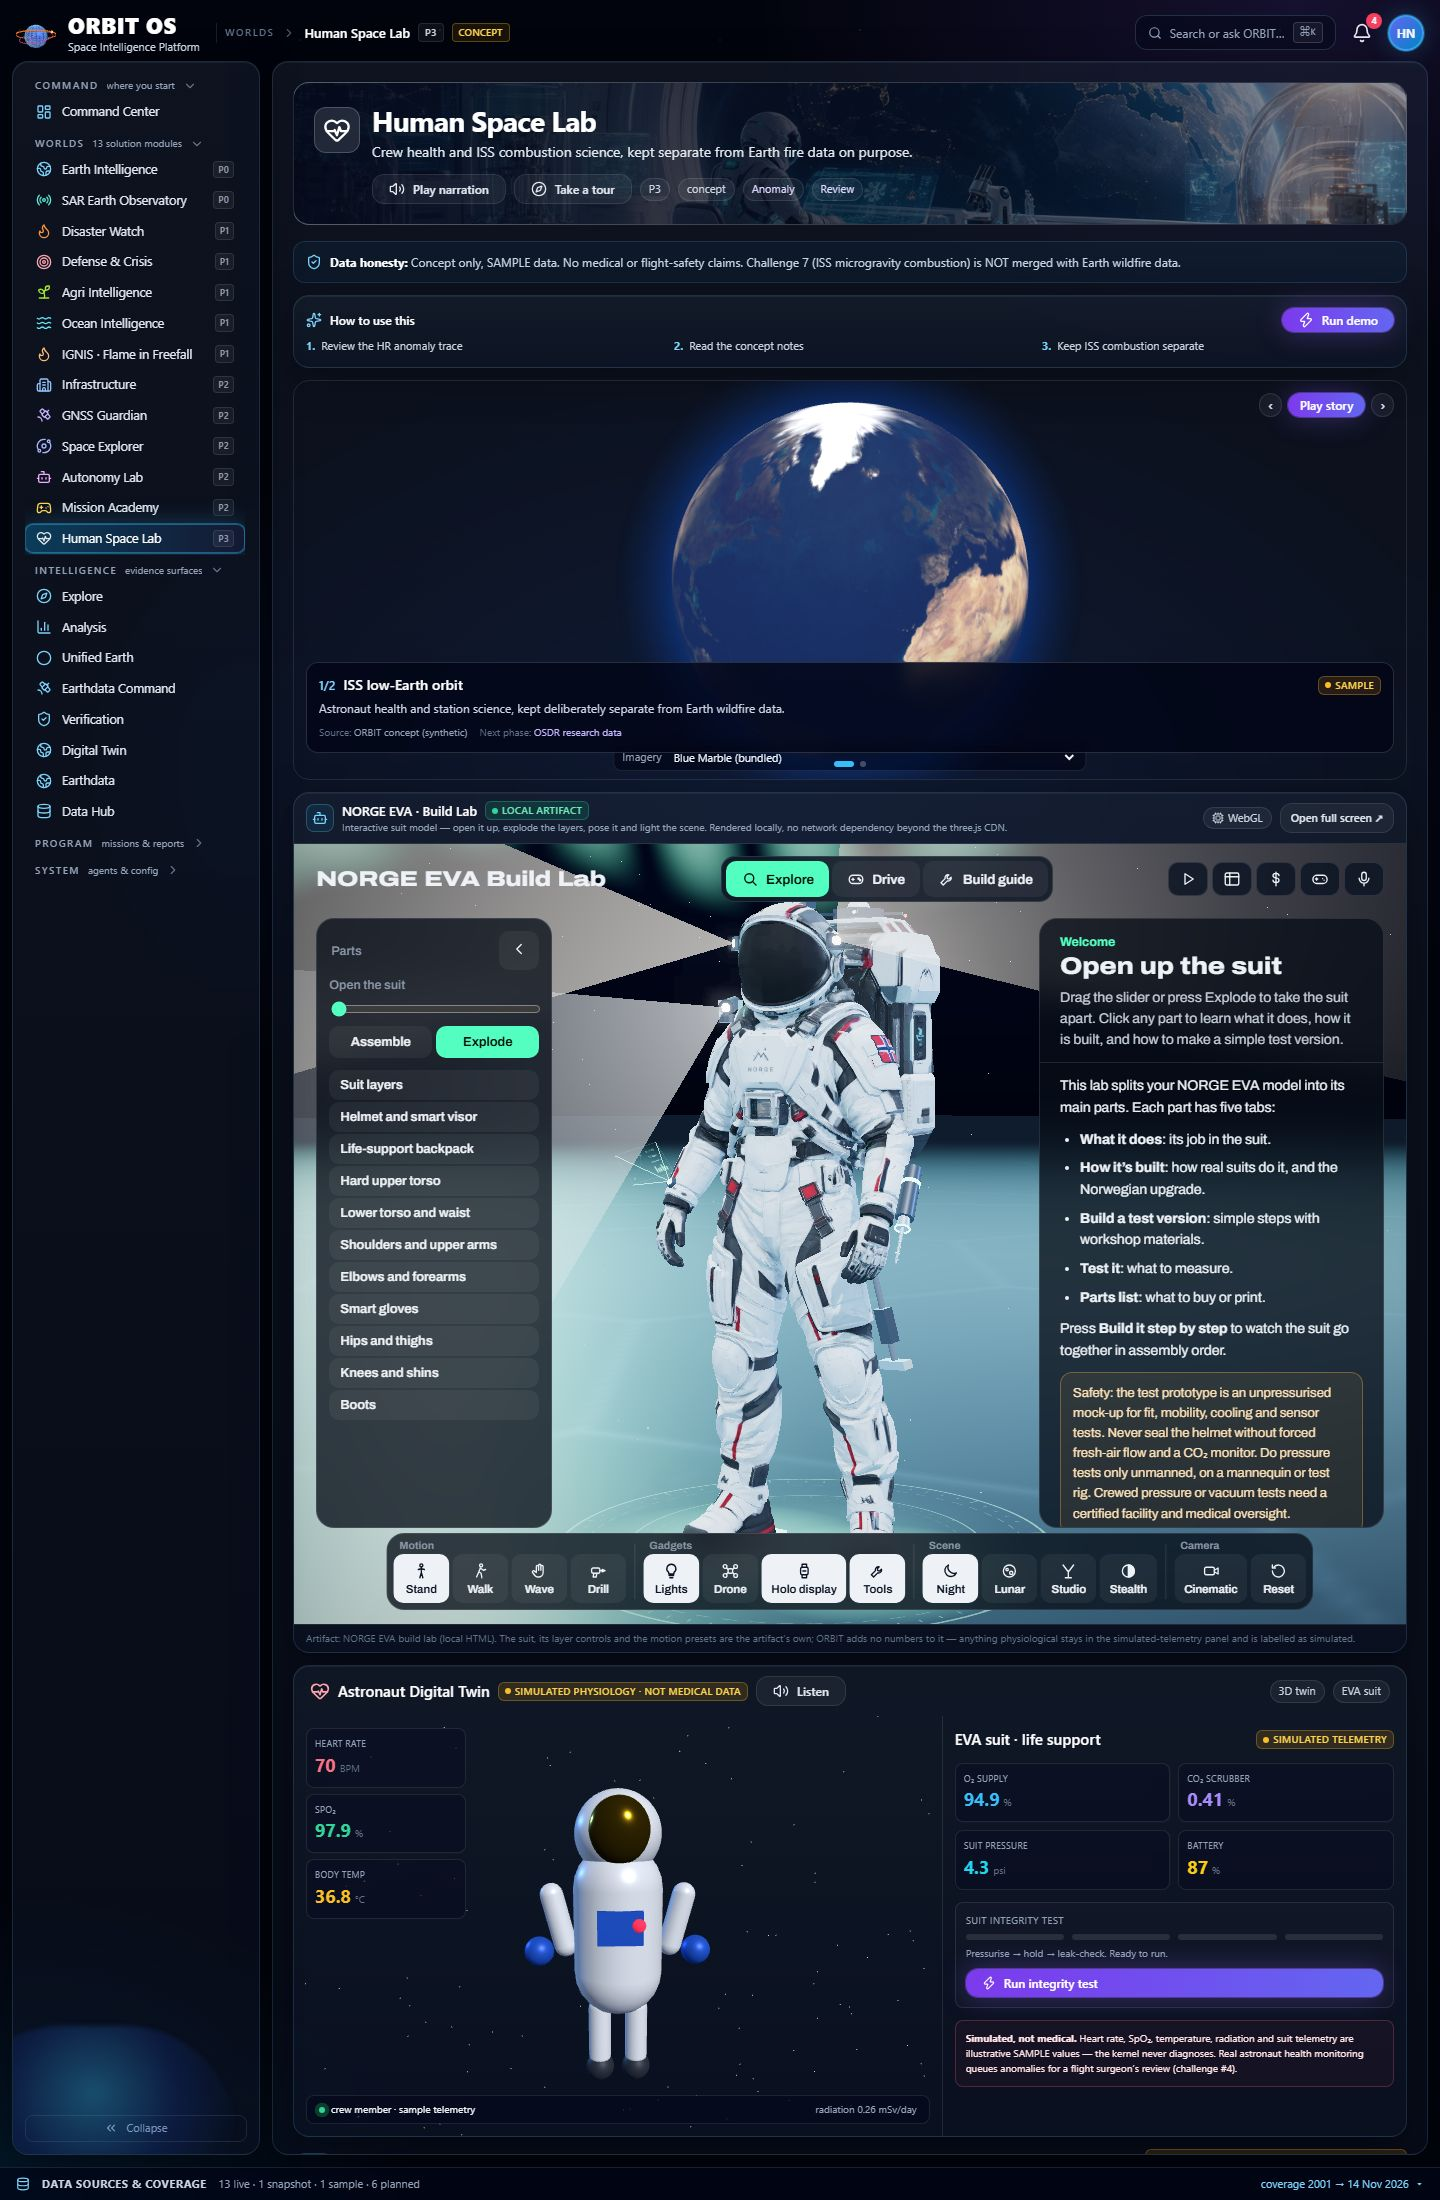
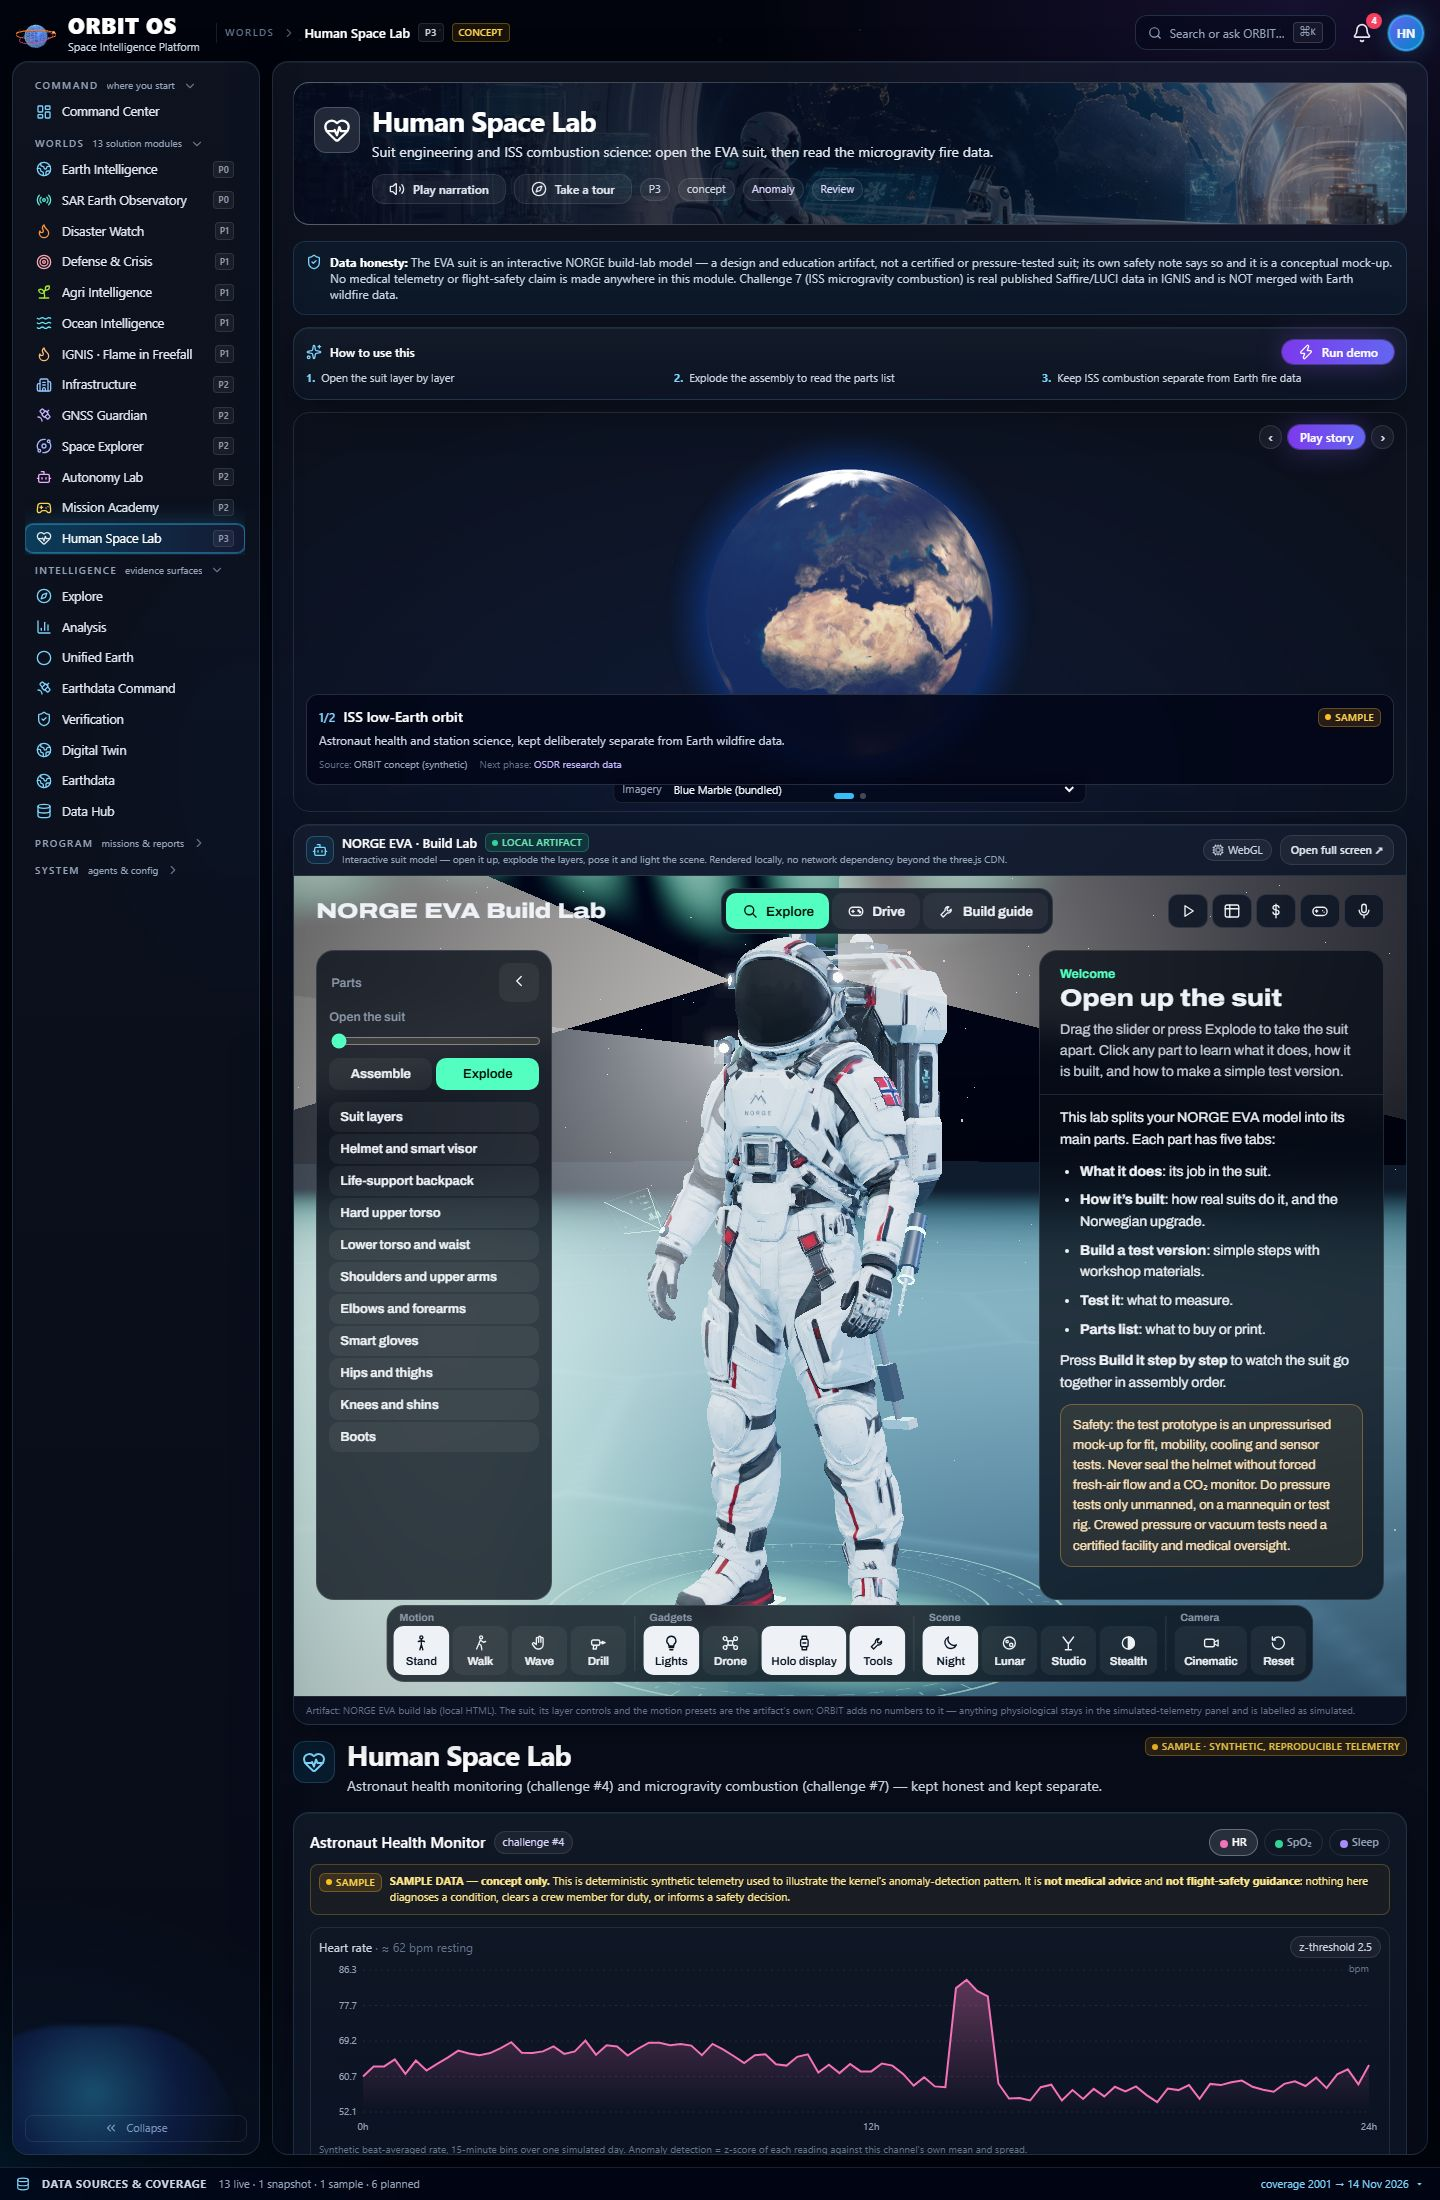
human: swap the astronaut digital-twin tile for the NORGE EVA Build Lab
- HumanSuite drops AstronautTwin entirely (component + lazy import); the EVA
  build lab is now the module's only interactive surface at 820 px.
- Honesty copy follows the artifact: the module tagline, question and honesty
  note now describe the suit build lab and state it is a conceptual,
  non-pressure-tested mock-up with no medical telemetry or flight-safety claim;
  the guide's three steps teach opening/exploding the suit instead of reading an
  HR trace.
- The challenge-4 health monitor (HumanLab, SAMPLE synthetic telemetry) stays as
  its own labelled panel, so the challenge mapping is still visible.

diff --git a/orbit-os/src/data/modules.ts b/orbit-os/src/data/modules.ts
@@ -35,7 +35,7 @@ export const MODULES: OrbitModule[] = [
   { id: 'autonomy', name: 'Autonomy Lab', icon: 'Bot', tagline: 'Energy-limited route planning: the same planner for a drone on Svalbard or a rover on Mars.', release: 'P2', state: 'demo', challenges: [10, 3], patterns: ['planning', 'transfer'], datasets: [], sdgs: [9], gradient: 'from-fuchsia-500/40 via-purple-700/30 to-slate-900/30', question: 'Plan a rover route on Mars', honest: 'SAMPLE terrain-cost grid. Real HiRISE/MOLA terrain is not connected.' },
   { id: 'explorer', name: 'Space Explorer', icon: 'Orbit', tagline: 'Earth analog to Moon/Mars transfer: rank Earth sites, then reuse the Earth-tested pipeline off-world.', release: 'P2', state: 'demo', challenges: [9, 11, 12], patterns: ['transfer', 'change', 'anomaly'], datasets: ['power', 'swpc', 'donki', 'celestrak'], sdgs: [9, 4], gradient: 'from-indigo-500/40 via-violet-700/30 to-purple-950/30', question: 'Which Earth site is the best Mars analog?', honest: 'Earth climate is real POWER snapshot data. Mars and Moon profiles are approximate reference values (sample).' },
   { id: 'academy', name: 'Mission Academy', icon: 'Gamepad2', tagline: 'Learn by designing missions under mass, power and budget limits.', release: 'P2', state: 'demo', challenges: [13, 3, 1], patterns: ['planning', 'transfer'], datasets: [], sdgs: [4], gradient: 'from-amber-400/50 via-yellow-700/30 to-stone-900/30', question: 'Design a Mars outpost with 1000 kg', honest: 'Educational SAMPLE values. Not engineering data.' },
-  { id: 'human', name: 'Human Space Lab', icon: 'HeartPulse', tagline: 'Crew health and ISS combustion science, kept separate from Earth fire data on purpose.', release: 'P3', state: 'concept', challenges: [4, 7], patterns: ['anomaly', 'review'], datasets: [], sdgs: [3], gradient: 'from-slate-300/30 via-slate-600/30 to-slate-900/30', question: 'Show astronaut health anomalies', honest: 'Concept only, SAMPLE data. No medical or flight-safety claims. Challenge 7 (ISS microgravity combustion) is NOT merged with Earth wildfire data.' },
+  { id: 'human', name: 'Human Space Lab', icon: 'HeartPulse', tagline: 'Suit engineering and ISS combustion science: open the EVA suit, then read the microgravity fire data.', release: 'P3', state: 'concept', challenges: [4, 7], patterns: ['anomaly', 'review'], datasets: [], sdgs: [3], gradient: 'from-slate-300/30 via-slate-600/30 to-slate-900/30', question: 'Open up the NORGE EVA suit and see how it is built', honest: 'The EVA suit is an interactive NORGE build-lab model — a design and education artifact, not a certified or pressure-tested suit; its own safety note says so and it is a conceptual mock-up. No medical telemetry or flight-safety claim is made anywhere in this module. Challenge 7 (ISS microgravity combustion) is real published Saffire/LUCI data in IGNIS and is NOT merged with Earth wildfire data.' },
   { id: 'ignis', name: 'IGNIS · Flame in Freefall', icon: 'Flame', tagline: 'Real microgravity combustion science — published Saffire & LUCI flame-spread, 19 NASA PSI investigations, 5 collections.', release: 'P1', state: 'demo', challenges: [7], patterns: ['anomaly', 'review'], datasets: ['ignis'], sdgs: [3, 9], gradient: 'from-orange-500/40 via-red-700/30 to-slate-900/30', question: 'Compare Saffire and LUCI flame spread in microgravity', honest: 'Real published Saffire-I/II + LUCI flame-spread measurements and NASA PSI records (NTRS citations). Kept separate from Earth fire data on purpose. The source publications carry no absolute pressures or uncertainty intervals.' },
   { id: 'sar', name: 'SAR Earth Observatory', icon: 'Radio', tagline: 'See the invisible: radar reveals surface change that optical imagery misses.', release: 'P0', state: 'demo', challenges: [5], patterns: ['change', 'anomaly', 'fusion', 'review'], datasets: ['nisar', 'hls'], sdgs: [13, 15, 11], gradient: 'from-teal-500/40 via-emerald-700/30 to-slate-900/30', question: 'What changed between two radar passes over this region?', honest: 'Backscatter change, InSAR displacement and coherence over analysis-ready rasters (SAMPLE in the interactive demo). Real NISAR/Sentinel-1 discovery runs through the ASF connector; downloads need an Earthdata login. Raw SLC interferometry is not performed in-browser.' },
   { id: 'defense', name: 'Defense & Crisis', icon: 'Target', tagline: 'Live Earth situation room: every satellite, every crisis, every sensor — one real-time picture.', release: 'P1', state: 'demo', challenges: [], patterns: ['anomaly', 'fusion', 'review'], datasets: ['usgs', 'eonet', 'firms', 'swpc', 'celestrak', 'norge'], sdgs: [16, 9], gradient: 'from-rose-500/40 via-red-700/30 to-slate-900/30', question: 'What is happening on Earth right now?', honest: 'Satellite positions are approximate Keplerian propagation of CelesTrak TLEs (no J2/drag). Events, fires and space weather are real USGS / NASA EONET / FIRMS / NOAA SWPC harvests. A situational-awareness view, not a warning or defense-grading system.' },

diff --git a/orbit-os/src/pages/ModulePage.tsx b/orbit-os/src/pages/ModulePage.tsx
@@ -30,7 +30,6 @@ import { useStore } from '../state/store';
 const HumanLab = lazy(() => import('../modules/HumanLab').then((m) => ({ default: m.HumanLab })));
 const FlameLab = lazy(() => import('../modules/FlameLab').then((m) => ({ default: m.FlameLab })));
 const SolarFish = lazy(() => import('../modules/SolarFish').then((m) => ({ default: m.SolarFish })));
-const AstronautTwin = lazy(() => import('../modules/AstronautTwin').then((m) => ({ default: m.AstronautTwin })));
 const MartianRoutes = lazy(() => import('../modules/MartianRoutes').then((m) => ({ default: m.MartianRoutes })));
 const MissionAcademyPro = lazy(() => import('../modules/MissionAcademyPro').then((m) => ({ default: m.MissionAcademyPro })));
 const SituationRoom = lazy(() => import('../modules/SituationRoom').then((m) => ({ default: m.SituationRoom })));
@@ -65,9 +64,8 @@ const OceanSuite: ComponentType = () => <div className="space-y-3"><OceanBoard /
 const ExplorerSuite: ComponentType = () => <div className="space-y-3"><SpaceWeather /><SpaceExplorerPro /><SkyChangeViewer /></div>;
 const HumanSuite: ComponentType = () => (
   <div className="space-y-3">
-    {/* the EVA build-lab artifact is the lead surface of this module */}
-    <EvaLab height={780} />
-    <AstronautTwin />
+    {/* the EVA build-lab artifact replaces the earlier digital-twin tile */}
+    <EvaLab height={820} />
     <HumanLab />
     <FlameLab />
   </div>

diff --git a/orbit-os/src/data/guides.ts b/orbit-os/src/data/guides.ts
@@ -13,7 +13,7 @@ export const GUIDES: Record<ModuleId, ModuleGuide> = {
   autonomy: { focus: [], howto: ['Switch Earth ↔ Mars', 'Watch the planner route around obstacles', 'Compare the energy cost'] },
   explorer: { focus: [], howto: ['Rank Earth analogs against Mars/Moon', 'Read the scores', 'Run as a full investigation'] },
   academy: { focus: [], howto: ['Set a mass budget', 'Choose outpost modules', 'See the mission-value trade-off'] },
-  human: { focus: [], howto: ['Review the HR anomaly trace', 'Read the concept notes', 'Keep ISS combustion separate'] },
+  human: { focus: [], howto: ['Open the suit layer by layer', 'Explode the assembly to read the parts list', 'Keep ISS combustion separate from Earth fire data'] },
   ignis: { focus: [], howto: ['Read the published flame-spread values', 'Search the 19 NASA PSI investigations', 'Trace each figure to its NTRS source'] },
   sar: { focus: [], howto: ['Pick a study area', 'Swipe before/after and set the threshold', 'Check displacement and cross-links'] },
   defense: { focus: [], howto: ['Watch the live satellite swarm', 'Read the real-time situation panels', 'Review the free data sources behind it'] },
